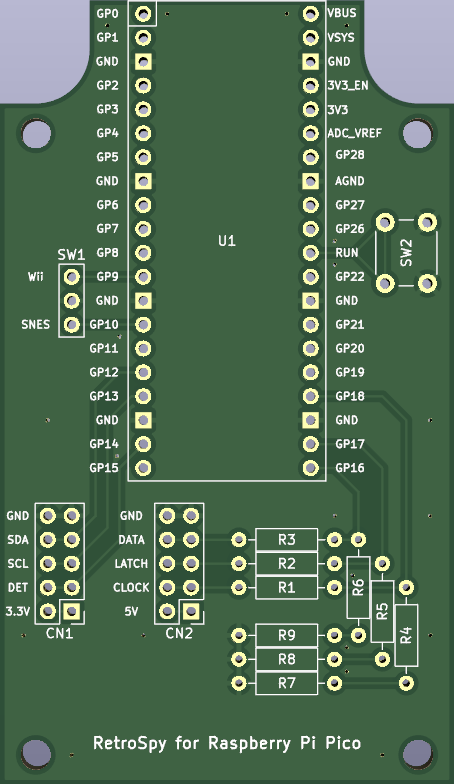
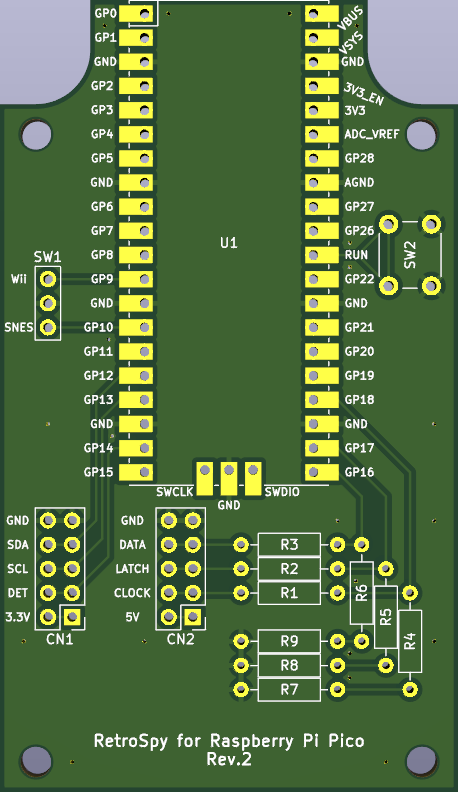
update readme

diff --git a/docs/README-RaspberryPiPico.md b/docs/README-RaspberryPiPico.md
@@ -40,7 +40,7 @@ Make holes for USB connector, toggle switch, and controller cables.
 
 ### Assembly
 
-* Solder sockets to U1 and mount a Raspberry Pi Pico.
+* Solder Raspberry Pi Pico to U1.
 * Solder 10kΩ resistors to R1 to R9.
 * Connect a toggle switch or solder a jumper pin to SW1.<br>
   (SW1 is used to select which controller to read.)
